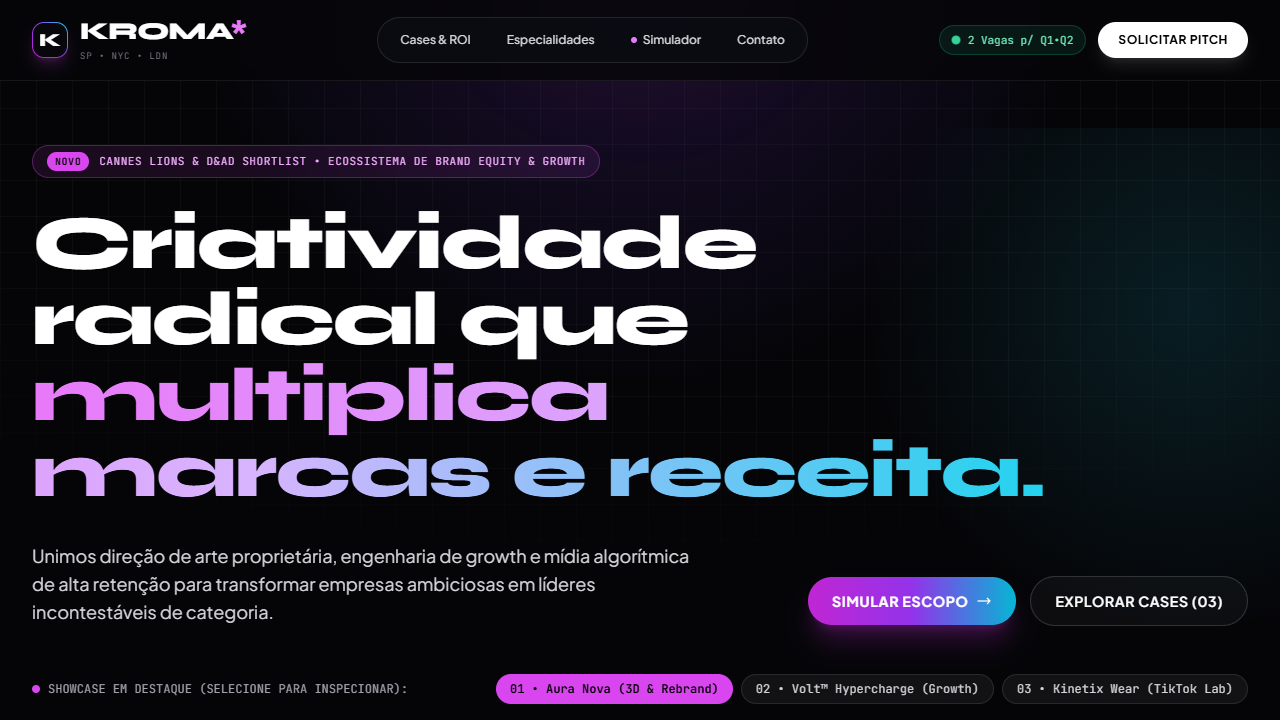
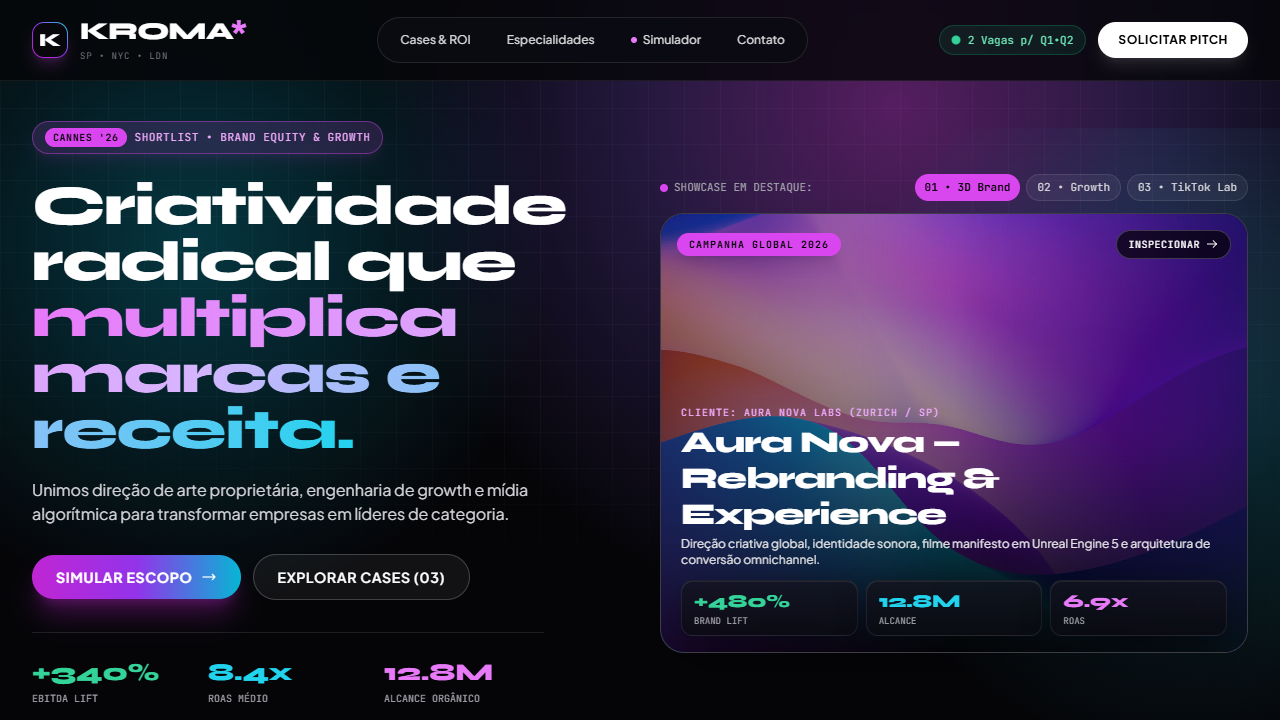
fix(layouts): reorganize Hero to 2-column layout with visible 3D artwork in upper viewport and refresh 602KB screenshot with cache bust

diff --git a/layouts para sites/site-agencia-publicidade/index.html b/layouts para sites/site-agencia-publicidade/index.html
@@ -52,10 +52,11 @@
 
     /* Ambient lighting */
     .glow-top {
-      background: radial-gradient(circle 650px at 50% -10%, rgba(217, 70, 239, 0.20), rgba(124, 58, 237, 0.10), transparent 70%);
+      background: radial-gradient(circle 750px at 70% 15%, rgba(217, 70, 239, 0.38), rgba(139, 92, 246, 0.22), transparent 70%),
+                  radial-gradient(circle 600px at 15% 35%, rgba(6, 182, 212, 0.28), transparent 60%);
     }
     .glow-side {
-      background: radial-gradient(circle 500px at 85% 30%, rgba(34, 211, 238, 0.12), transparent 65%);
+      background: radial-gradient(circle 550px at 85% 45%, rgba(34, 211, 238, 0.22), transparent 65%);
     }
 
     /* Luxury Glass Cards */
@@ -227,117 +228,128 @@
   <main class="relative z-10">
 
     <!-- HERO SECTION -->
-    <section class="max-w-7xl mx-auto px-5 sm:px-8 pt-10 sm:pt-16 pb-16">
-      <div class="flex flex-col items-start">
+    <section class="max-w-7xl mx-auto px-5 sm:px-8 pt-6 sm:pt-10 pb-12 sm:pb-16 relative">
+      <div class="grid grid-cols-1 lg:grid-cols-12 gap-8 lg:gap-10 items-center">
         
-        <!-- Top Recognition Pill -->
-        <div class="inline-flex flex-wrap items-center gap-2.5 px-3.5 py-1.5 rounded-full border border-fuchsia-500/30 bg-fuchsia-500/10 text-fuchsia-300 text-[11px] font-mono-tech uppercase tracking-wider mb-7 backdrop-blur-md">
-          <span class="px-2 py-0.5 rounded-full bg-fuchsia-500 text-black font-bold text-[10px]">NOVO</span>
-          <span>Cannes Lions & D&AD Shortlist • Ecossistema de Brand Equity & Growth</span>
-        </div>
+        <!-- Left Column: Typography, Value Proposition & CTAs -->
+        <div class="lg:col-span-6 flex flex-col items-start">
+          <!-- Top Recognition Pill -->
+          <div class="inline-flex flex-wrap items-center gap-2 px-3 py-1.5 rounded-full border border-fuchsia-500/40 bg-fuchsia-500/15 text-fuchsia-300 text-[11px] font-mono-tech uppercase tracking-wider mb-6 backdrop-blur-md shadow-lg shadow-fuchsia-500/10">
+            <span class="px-2 py-0.5 rounded-full bg-fuchsia-500 text-black font-extrabold text-[10px]">CANNES '26</span>
+            <span>Shortlist • Brand Equity & Growth</span>
+          </div>
 
-        <!-- Hero Display Title -->
-        <h1 class="font-agency text-4xl sm:text-6xl lg:text-[76px] font-extrabold leading-[0.96] tracking-tight max-w-5xl text-white">
-          Criatividade radical que <span class="text-transparent bg-clip-text bg-gradient-to-r from-fuchsia-400 via-purple-300 to-cyan-400">multiplica marcas e receita.</span>
-        </h1>
+          <!-- Hero Display Title -->
+          <h1 class="font-agency text-4xl sm:text-5xl lg:text-[56px] font-extrabold leading-[0.98] tracking-tight text-white">
+            Criatividade radical que <span class="text-transparent bg-clip-text bg-gradient-to-r from-fuchsia-400 via-purple-300 to-cyan-400">multiplica marcas e receita.</span>
+          </h1>
 
-        <!-- Subtitle & Dual CTAs -->
-        <div class="mt-8 flex flex-col lg:flex-row lg:items-end justify-between w-full gap-8">
-          <p class="text-base sm:text-lg text-zinc-300 max-w-2xl leading-relaxed font-normal">
-            Unimos direção de arte proprietária, engenharia de growth e mídia algorítmica de alta retenção para transformar empresas ambiciosas em líderes incontestáveis de categoria.
+          <!-- Subtitle -->
+          <p class="mt-5 text-sm sm:text-base text-zinc-300 leading-relaxed font-normal max-w-xl">
+            Unimos direção de arte proprietária, engenharia de growth e mídia algorítmica para transformar empresas em líderes de categoria.
           </p>
 
-          <div class="flex flex-wrap items-center gap-3.5 shrink-0">
-            <a href="#simulador" class="px-6 py-3.5 rounded-full text-xs sm:text-sm font-bold uppercase tracking-wider bg-gradient-to-r from-fuchsia-600 via-purple-600 to-cyan-500 hover:brightness-110 text-white shadow-xl shadow-fuchsia-600/25 transition-all hover:scale-[1.02] flex items-center gap-2">
+          <!-- Dual CTAs -->
+          <div class="mt-7 flex flex-wrap items-center gap-3 w-full sm:w-auto">
+            <a href="#simulador" class="px-6 py-3 rounded-full text-xs sm:text-sm font-bold uppercase tracking-wider bg-gradient-to-r from-fuchsia-600 via-purple-600 to-cyan-500 hover:brightness-110 text-white shadow-xl shadow-fuchsia-600/30 transition-all hover:scale-[1.02] flex items-center gap-2">
               <span>Simular Escopo</span>
               <svg class="w-4 h-4" fill="none" stroke="currentColor" viewBox="0 0 24 24"><path stroke-linecap="round" stroke-linejoin="round" stroke-width="2" d="M17 8l4 4m0 0l-4 4m4-4H3"/></svg>
             </a>
-            <a href="#cases" class="px-6 py-3.5 rounded-full text-xs sm:text-sm font-semibold uppercase tracking-wider border border-white/15 bg-white/[0.03] hover:bg-white/[0.08] text-white transition-all">
+            <a href="#cases" class="px-6 py-3 rounded-full text-xs sm:text-sm font-semibold uppercase tracking-wider border border-white/20 bg-white/[0.05] hover:bg-white/[0.1] text-white transition-all">
               Explorar Cases (03)
             </a>
           </div>
+
+          <!-- Key Metrics Badges -->
+          <div class="mt-8 pt-6 border-t border-white/10 grid grid-cols-3 gap-4 w-full max-w-lg">
+            <div>
+              <div class="text-xl sm:text-2xl font-agency font-extrabold text-emerald-400">+340%</div>
+              <div class="text-[10px] font-mono-tech uppercase text-zinc-400 mt-0.5">EBITDA Lift</div>
+            </div>
+            <div>
+              <div class="text-xl sm:text-2xl font-agency font-extrabold text-cyan-400">8.4x</div>
+              <div class="text-[10px] font-mono-tech uppercase text-zinc-400 mt-0.5">ROAS Médio</div>
+            </div>
+            <div>
+              <div class="text-xl sm:text-2xl font-agency font-extrabold text-fuchsia-400">12.8M</div>
+              <div class="text-[10px] font-mono-tech uppercase text-zinc-400 mt-0.5">Alcance Orgânico</div>
+            </div>
+          </div>
         </div>
 
-        <!-- INTERACTIVE CAMPAIGN SHOWCASE BANNER -->
-        <div class="w-full mt-12">
+        <!-- Right Column: Interactive Showcase Stage -->
+        <div class="lg:col-span-6 w-full">
           <!-- Showcase Tabs -->
-          <div class="flex flex-wrap items-center justify-between gap-4 mb-4">
-            <div class="flex items-center gap-2 text-xs font-mono-tech text-zinc-400">
+          <div class="flex items-center justify-between gap-2 mb-3">
+            <span class="text-[11px] font-mono-tech text-zinc-400 flex items-center gap-1.5">
               <span class="w-2 h-2 rounded-full bg-fuchsia-500 animate-pulse"></span>
-              <span>SHOWCASE EM DESTAQUE (SELECIONE PARA INSPECIONAR):</span>
-            </div>
-            <div class="flex flex-wrap gap-2" id="showcase-tabs">
-              <button onclick="switchShowcase(0)" class="showcase-tab active px-3.5 py-1.5 rounded-full text-xs font-mono-tech transition-all bg-fuchsia-500 text-black font-semibold">
-                01 • Aura Nova (3D & Rebrand)
+              SHOWCASE EM DESTAQUE:
+            </span>
+            <div class="flex gap-1.5" id="showcase-tabs">
+              <button onclick="switchShowcase(0)" class="showcase-tab active px-2.5 py-1 rounded-full text-[11px] font-mono-tech transition-all bg-fuchsia-500 text-black font-semibold">
+                01 • 3D Brand
               </button>
-              <button onclick="switchShowcase(1)" class="showcase-tab px-3.5 py-1.5 rounded-full text-xs font-mono-tech transition-all bg-white/5 text-zinc-300 hover:bg-white/10 border border-white/10">
-                02 • Volt™ Hypercharge (Growth)
+              <button onclick="switchShowcase(1)" class="showcase-tab px-2.5 py-1 rounded-full text-[11px] font-mono-tech transition-all bg-white/5 text-zinc-300 hover:bg-white/10 border border-white/10">
+                02 • Growth
               </button>
-              <button onclick="switchShowcase(2)" class="showcase-tab px-3.5 py-1.5 rounded-full text-xs font-mono-tech transition-all bg-white/5 text-zinc-300 hover:bg-white/10 border border-white/10">
-                03 • Kinetix Wear (TikTok Lab)
+              <button onclick="switchShowcase(2)" class="showcase-tab px-2.5 py-1 rounded-full text-[11px] font-mono-tech transition-all bg-white/5 text-zinc-300 hover:bg-white/10 border border-white/10">
+                03 • TikTok Lab
               </button>
             </div>
           </div>
 
           <!-- Showcase Stage -->
-          <div class="relative rounded-3xl overflow-hidden border border-white/15 h-[420px] sm:h-[490px] shadow-2xl group bg-[#0A0A12]">
+          <div class="relative rounded-3xl overflow-hidden border border-white/20 h-[380px] sm:h-[440px] shadow-2xl group bg-[#0C0C18]">
             <img id="showcase-img"
                  src="https://images.unsplash.com/photo-1618005182384-a83a8bd57fbe?q=80&w=1600&auto=format&fit=crop"
                  alt="Kroma Studio Showcase"
                  onerror="this.src='https://placehold.co/1600x900/120924/e879f9?text=KROMA+SHOWCASE'"
-                 class="w-full h-full object-cover object-center filter brightness-[0.78] contrast-[1.08] transition-all duration-700 group-hover:scale-105">
+                 class="w-full h-full object-cover object-center filter brightness-[0.88] contrast-[1.12] transition-all duration-700 group-hover:scale-105">
             
-            <!-- Multi-layer Gradients for Crisp Legibility -->
-            <div class="absolute inset-0 bg-gradient-to-t from-[#050508] via-[#050508]/45 to-transparent"></div>
-            <div class="absolute inset-0 bg-gradient-to-r from-[#050508]/80 via-transparent to-cyan-950/30"></div>
+            <!-- Multi-layer Gradients -->
+            <div class="absolute inset-0 bg-gradient-to-t from-[#050508] via-[#050508]/40 to-transparent"></div>
+            <div class="absolute inset-0 bg-gradient-to-r from-purple-950/40 via-transparent to-cyan-950/30"></div>
 
             <!-- Top Overlay Controls -->
-            <div class="absolute top-6 left-6 right-6 flex items-center justify-between">
-              <div class="flex items-center gap-2.5">
-                <span id="showcase-badge" class="px-3.5 py-1 rounded-full text-[11px] font-mono-tech uppercase font-bold tracking-widest bg-fuchsia-500 text-black shadow-lg">
-                  Campanha Global 2026
-                </span>
-                <span id="showcase-category" class="hidden sm:inline-block px-3 py-1 rounded-full text-[11px] font-mono-tech bg-black/60 backdrop-blur-md border border-white/15 text-zinc-200">
-                  Design System • Filme 3D • Brand Lift
-                </span>
-              </div>
-
-              <button onclick="openCaseModal(currentShowcaseIndex)" class="px-4 py-2 rounded-full bg-black/65 hover:bg-white hover:text-black text-white backdrop-blur-md border border-white/20 text-xs font-mono-tech uppercase tracking-wider transition-all flex items-center gap-2">
-                <span>Abrir Estudo Completo</span>
-                <svg class="w-3.5 h-3.5" fill="none" stroke="currentColor" viewBox="0 0 24 24"><path stroke-linecap="round" stroke-linejoin="round" stroke-width="2" d="M14 5l7 7m0 0l-7 7m7-7H3"/></svg>
+            <div class="absolute top-4 left-4 right-4 flex items-center justify-between">
+              <span id="showcase-badge" class="px-3 py-1 rounded-full text-[10px] font-mono-tech uppercase font-bold tracking-widest bg-fuchsia-500 text-black shadow-lg">
+                Campanha Global 2026
+              </span>
+              <button onclick="openCaseModal(currentShowcaseIndex)" class="px-3 py-1.5 rounded-full bg-black/70 hover:bg-white hover:text-black text-white backdrop-blur-md border border-white/20 text-[10px] font-mono-tech uppercase tracking-wider transition-all flex items-center gap-1.5">
+                <span>Inspecionar</span>
+                <svg class="w-3 h-3" fill="none" stroke="currentColor" viewBox="0 0 24 24"><path stroke-linecap="round" stroke-linejoin="round" stroke-width="2" d="M14 5l7 7m0 0l-7 7m7-7H3"/></svg>
               </button>
             </div>
 
             <!-- Bottom Overlay Info & Audited Metrics -->
-            <div class="absolute bottom-6 sm:bottom-8 left-6 sm:left-10 right-6 sm:right-10 flex flex-col lg:flex-row lg:items-end justify-between gap-6">
-              <div class="max-w-xl">
-                <div class="text-xs font-mono-tech text-fuchsia-300 uppercase tracking-widest mb-1" id="showcase-client">
-                  CLIENTE: AURA NOVA LABS (ZURICH / SP)
-                </div>
-                <h2 id="showcase-title" class="font-agency text-2xl sm:text-4xl lg:text-5xl font-extrabold text-white tracking-tight leading-none">
-                  Aura Nova — Rebranding & Experience
-                </h2>
-                <p id="showcase-desc" class="text-xs sm:text-sm text-zinc-200 mt-2.5 leading-relaxed">
-                  Direção criativa global, identidade sonora, filme manifesto em Unreal Engine 5 e arquitetura de conversão omnichannel.
-                </p>
+            <div class="absolute bottom-4 left-5 right-5 flex flex-col justify-end">
+              <div class="text-[10px] font-mono-tech text-fuchsia-300 uppercase tracking-widest" id="showcase-client">
+                CLIENTE: AURA NOVA LABS (ZURICH / SP)
               </div>
+              <h2 id="showcase-title" class="font-agency text-xl sm:text-3xl font-extrabold text-white tracking-tight leading-tight mt-1">
+                Aura Nova — Rebranding & Experience
+              </h2>
+              <p id="showcase-desc" class="text-xs text-zinc-200 mt-1 line-clamp-2">
+                Direção criativa global, identidade sonora, filme manifesto em Unreal Engine 5 e arquitetura de conversão omnichannel.
+              </p>
 
               <!-- Metric Cards -->
-              <div class="flex flex-wrap items-center gap-3">
-                <div class="px-4 py-3 rounded-2xl glass-card min-w-[130px]">
-                  <div id="showcase-metric1-val" class="text-2xl sm:text-3xl font-agency font-extrabold text-emerald-400">+480%</div>
-                  <div id="showcase-metric1-lbl" class="text-[10px] uppercase font-mono-tech text-zinc-400 mt-0.5">Brand Lift Auditado</div>
+              <div class="flex items-center gap-2 mt-3">
+                <div class="px-3 py-1.5 rounded-xl glass-card flex-1">
+                  <div id="showcase-metric1-val" class="text-lg font-agency font-extrabold text-emerald-400">+480%</div>
+                  <div id="showcase-metric1-lbl" class="text-[9px] uppercase font-mono-tech text-zinc-400">Brand Lift</div>
                 </div>
-                <div class="px-4 py-3 rounded-2xl glass-card min-w-[130px]">
-                  <div id="showcase-metric2-val" class="text-2xl sm:text-3xl font-agency font-extrabold text-cyan-400">12.8M</div>
-                  <div id="showcase-metric2-lbl" class="text-[10px] uppercase font-mono-tech text-zinc-400 mt-0.5">Alcance Orgânico</div>
+                <div class="px-3 py-1.5 rounded-xl glass-card flex-1">
+                  <div id="showcase-metric2-val" class="text-lg font-agency font-extrabold text-cyan-400">12.8M</div>
+                  <div id="showcase-metric2-lbl" class="text-[9px] uppercase font-mono-tech text-zinc-400">Alcance</div>
                 </div>
-                <div class="px-4 py-3 rounded-2xl glass-card min-w-[130px] hidden sm:block">
-                  <div id="showcase-metric3-val" class="text-2xl sm:text-3xl font-agency font-extrabold text-fuchsia-400">6.9x</div>
-                  <div id="showcase-metric3-lbl" class="text-[10px] uppercase font-mono-tech text-zinc-400 mt-0.5">ROAS Consolidado</div>
+                <div class="px-3 py-1.5 rounded-xl glass-card flex-1 hidden sm:block">
+                  <div id="showcase-metric3-val" class="text-lg font-agency font-extrabold text-fuchsia-400">6.9x</div>
+                  <div id="showcase-metric3-lbl" class="text-[9px] uppercase font-mono-tech text-zinc-400">ROAS</div>
                 </div>
               </div>
             </div>
+
           </div>
         </div>
 

diff --git a/assets/js/projects-data.js b/assets/js/projects-data.js
@@ -678,9 +678,9 @@ const PROJECTS_DATA = [
     badge: "Creative Growth • B2B",
     shortDescription: "Agência de branding e growth com estética editorial suíça, portfólio de campanhas e simulador de ROI de marketing.",
     fullDescription: "Conceito de presença digital para agências de publicidade e estúdios de design estratégico. Apresenta cases com métricas de crescimento, grid de projetos autorais e cálculo de retorno de investimento.",
-    image: "assets/images/layout-agencia-publicidade.png",
+    image: "assets/images/layout-agencia-publicidade.png?v=3",
     gallery: [
-      "assets/images/layout-agencia-publicidade.png"
+      "assets/images/layout-agencia-publicidade.png?v=3"
     ],
     tags: ["Advertising UI", "Creative Agency", "Branding B2B", "ROI Simulator"],
     links: {

diff --git a/v1-vitrine-dark-neon/assets/js/projects-data.js b/v1-vitrine-dark-neon/assets/js/projects-data.js
@@ -678,9 +678,9 @@ const PROJECTS_DATA = [
     badge: "Creative Growth • B2B",
     shortDescription: "Agência de branding e growth com estética editorial suíça, portfólio de campanhas e simulador de ROI de marketing.",
     fullDescription: "Conceito de presença digital para agências de publicidade e estúdios de design estratégico. Apresenta cases com métricas de crescimento, grid de projetos autorais e cálculo de retorno de investimento.",
-    image: "assets/images/layout-agencia-publicidade.png",
+    image: "assets/images/layout-agencia-publicidade.png?v=3",
     gallery: [
-      "assets/images/layout-agencia-publicidade.png"
+      "assets/images/layout-agencia-publicidade.png?v=3"
     ],
     tags: ["Advertising UI", "Creative Agency", "Branding B2B", "ROI Simulator"],
     links: {

diff --git a/v2-editorial-dark-blue/assets/js/projects-data.js b/v2-editorial-dark-blue/assets/js/projects-data.js
@@ -678,9 +678,9 @@ const PROJECTS_DATA = [
     badge: "Creative Growth • B2B",
     shortDescription: "Agência de branding e growth com estética editorial suíça, portfólio de campanhas e simulador de ROI de marketing.",
     fullDescription: "Conceito de presença digital para agências de publicidade e estúdios de design estratégico. Apresenta cases com métricas de crescimento, grid de projetos autorais e cálculo de retorno de investimento.",
-    image: "assets/images/layout-agencia-publicidade.png",
+    image: "assets/images/layout-agencia-publicidade.png?v=3",
     gallery: [
-      "assets/images/layout-agencia-publicidade.png"
+      "assets/images/layout-agencia-publicidade.png?v=3"
     ],
     tags: ["Advertising UI", "Creative Agency", "Branding B2B", "ROI Simulator"],
     links: {
